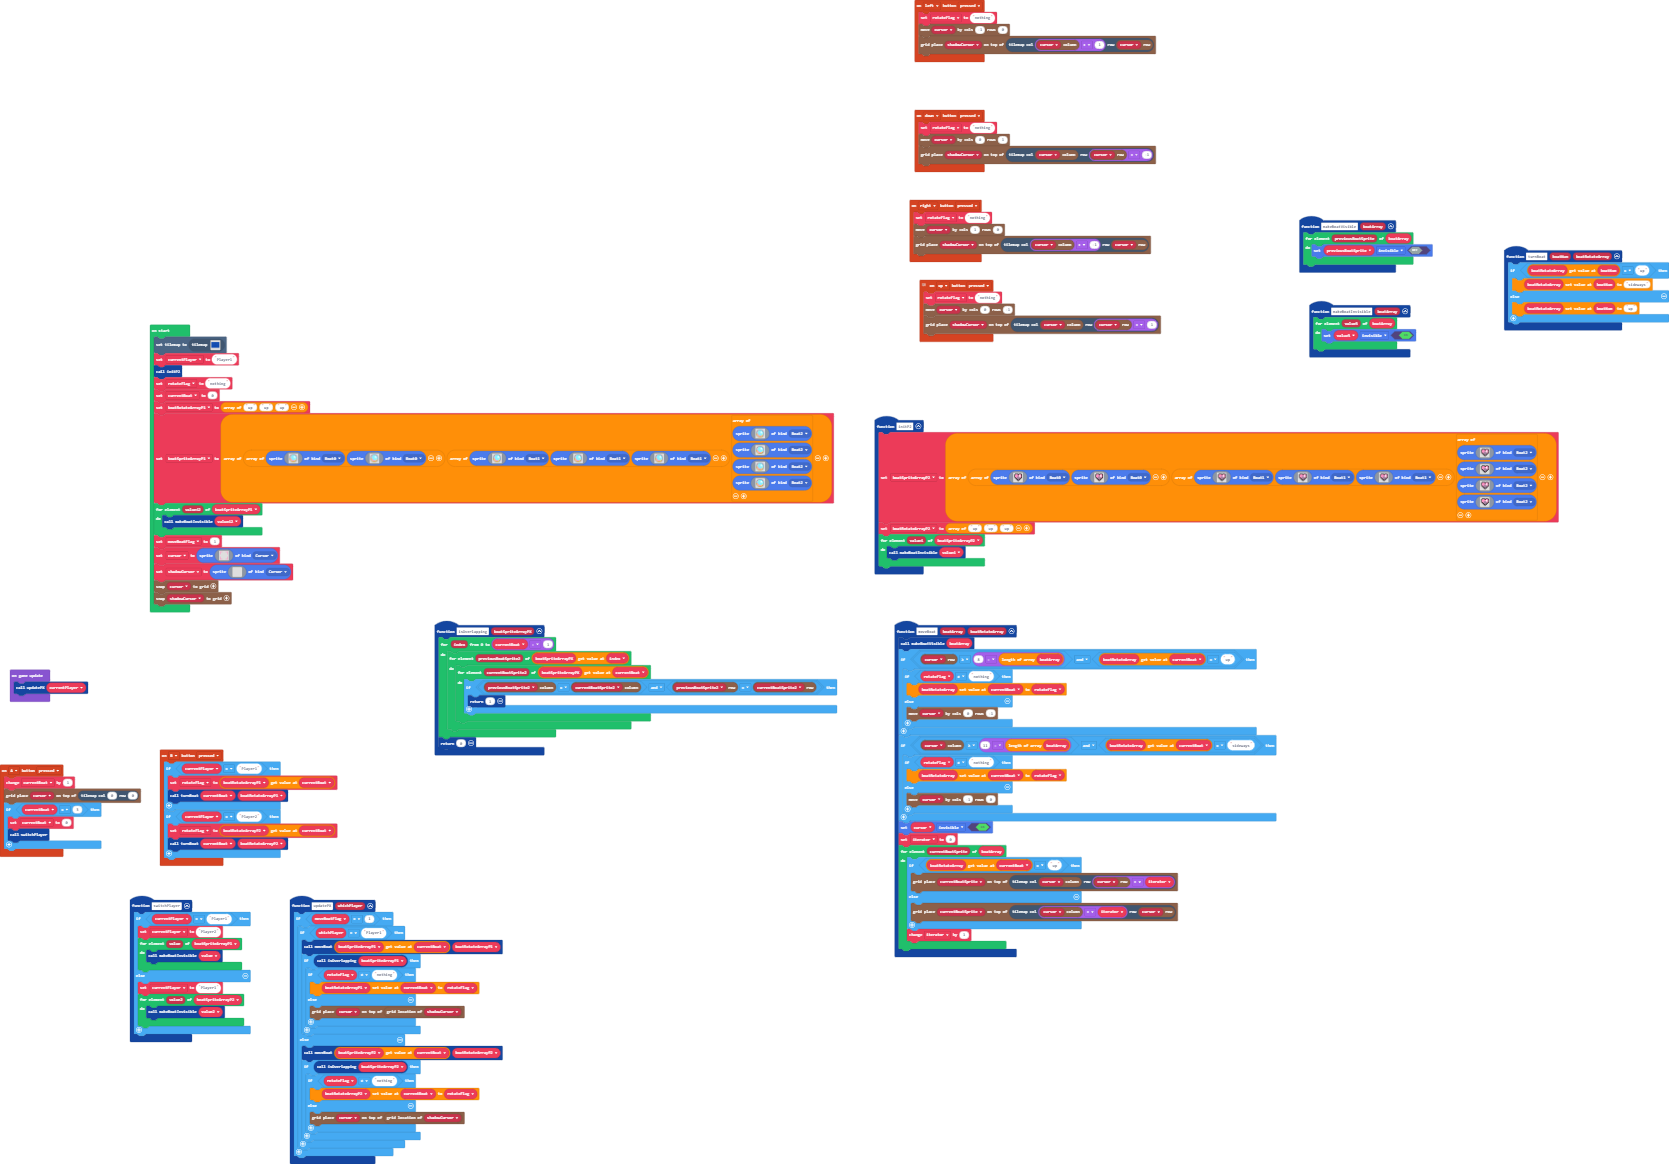
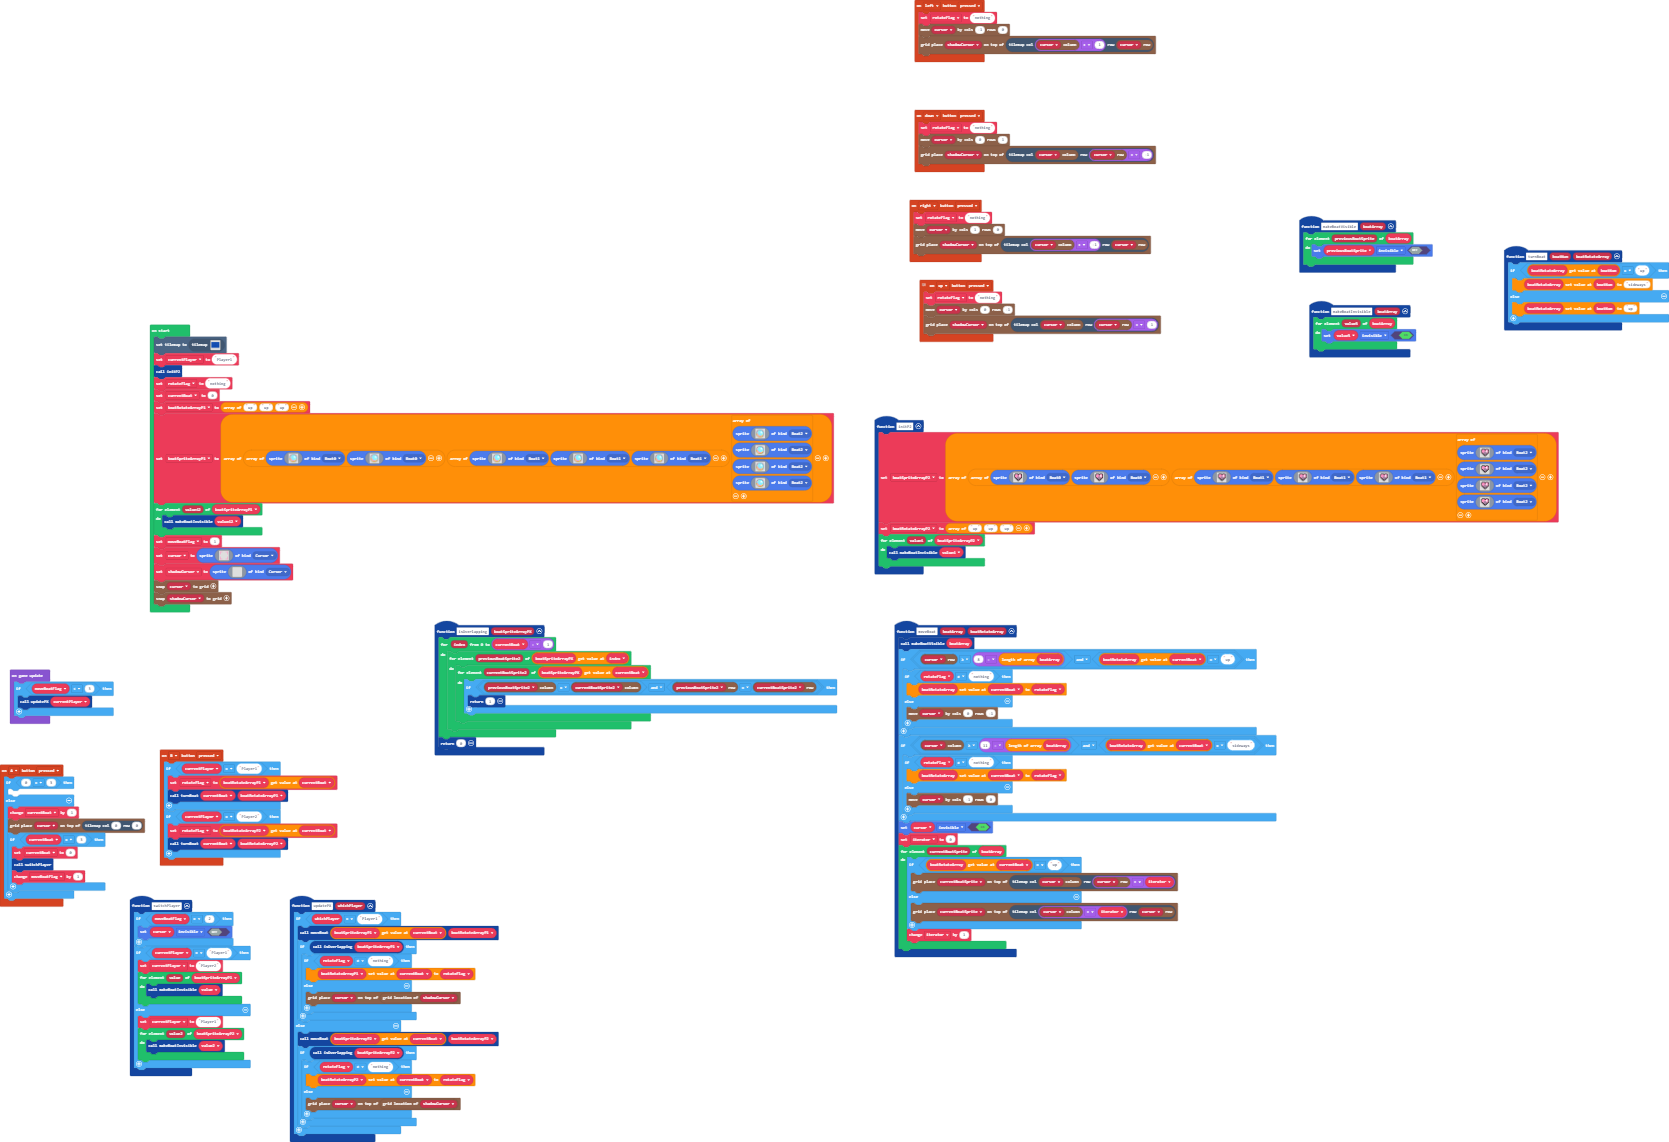
cursor turns on

diff --git a/main.ts b/main.ts
@@ -11,24 +11,22 @@ controller.up.onEvent(ControllerButtonEvent.Pressed, function () {
     grid.place(shadowCursor, tiles.getTileLocation(grid.spriteCol(cursor), grid.spriteRow(cursor) + 1))
 })
 function updatePX (whichPlayer: string) {
-    if (moveBoatFlag == 1) {
-        if (whichPlayer == "Player1") {
-            moveBoat(boatSpriteArrayP1[currentBoat], boatRotateArrayP1)
-            if (isOverlapping(boatSpriteArrayP1)) {
-                if (rotateFlag != "nothing") {
-                    boatRotateArrayP1[currentBoat] = rotateFlag
-                } else {
-                    grid.place(cursor, grid.getLocation(shadowCursor))
-                }
+    if (whichPlayer == "Player1") {
+        moveBoat(boatSpriteArrayP1[currentBoat], boatRotateArrayP1)
+        if (isOverlapping(boatSpriteArrayP1)) {
+            if (rotateFlag != "nothing") {
+                boatRotateArrayP1[currentBoat] = rotateFlag
+            } else {
+                grid.place(cursor, grid.getLocation(shadowCursor))
             }
-        } else {
-            moveBoat(boatSpriteArrayP2[currentBoat], boatRotateArrayP2)
-            if (isOverlapping(boatSpriteArrayP2)) {
-                if (rotateFlag != "nothing") {
-                    boatRotateArrayP2[currentBoat] = rotateFlag
-                } else {
-                    grid.place(cursor, grid.getLocation(shadowCursor))
-                }
+        }
+    } else {
+        moveBoat(boatSpriteArrayP2[currentBoat], boatRotateArrayP2)
+        if (isOverlapping(boatSpriteArrayP2)) {
+            if (rotateFlag != "nothing") {
+                boatRotateArrayP2[currentBoat] = rotateFlag
+            } else {
+                grid.place(cursor, grid.getLocation(shadowCursor))
             }
         }
     }
@@ -49,11 +47,16 @@ function makeBoatVisible (boatArray: Sprite[]) {
     }
 }
 controller.A.onEvent(ControllerButtonEvent.Pressed, function () {
-    currentBoat += 1
-    grid.place(cursor, tiles.getTileLocation(0, 0))
-    if (currentBoat == 3) {
-        currentBoat = 0
-        switchPlayer()
+    if ((0 as any) == (3 as any)) {
+    	
+    } else {
+        currentBoat += 1
+        grid.place(cursor, tiles.getTileLocation(0, 0))
+        if (currentBoat == 3) {
+            currentBoat = 0
+            switchPlayer()
+            moveBoatFlag += 1
+        }
     }
 })
 controller.left.onEvent(ControllerButtonEvent.Pressed, function () {
@@ -62,6 +65,9 @@ controller.left.onEvent(ControllerButtonEvent.Pressed, function () {
     grid.place(shadowCursor, tiles.getTileLocation(grid.spriteCol(cursor) + 1, grid.spriteRow(cursor)))
 })
 function switchPlayer () {
+    if (moveBoatFlag == 2) {
+        cursor.setFlag(SpriteFlag.Invisible, false)
+    }
     if (currentPlayer == "Player1") {
         currentPlayer = "Player2"
         for (let value of boatSpriteArrayP1) {
@@ -527,5 +533,7 @@ shadowCursor = sprites.create(img`
 grid.snap(cursor)
 grid.snap(shadowCursor)
 game.onUpdate(function () {
-    updatePX(currentPlayer)
+    if (moveBoatFlag < 3) {
+        updatePX(currentPlayer)
+    }
 })
